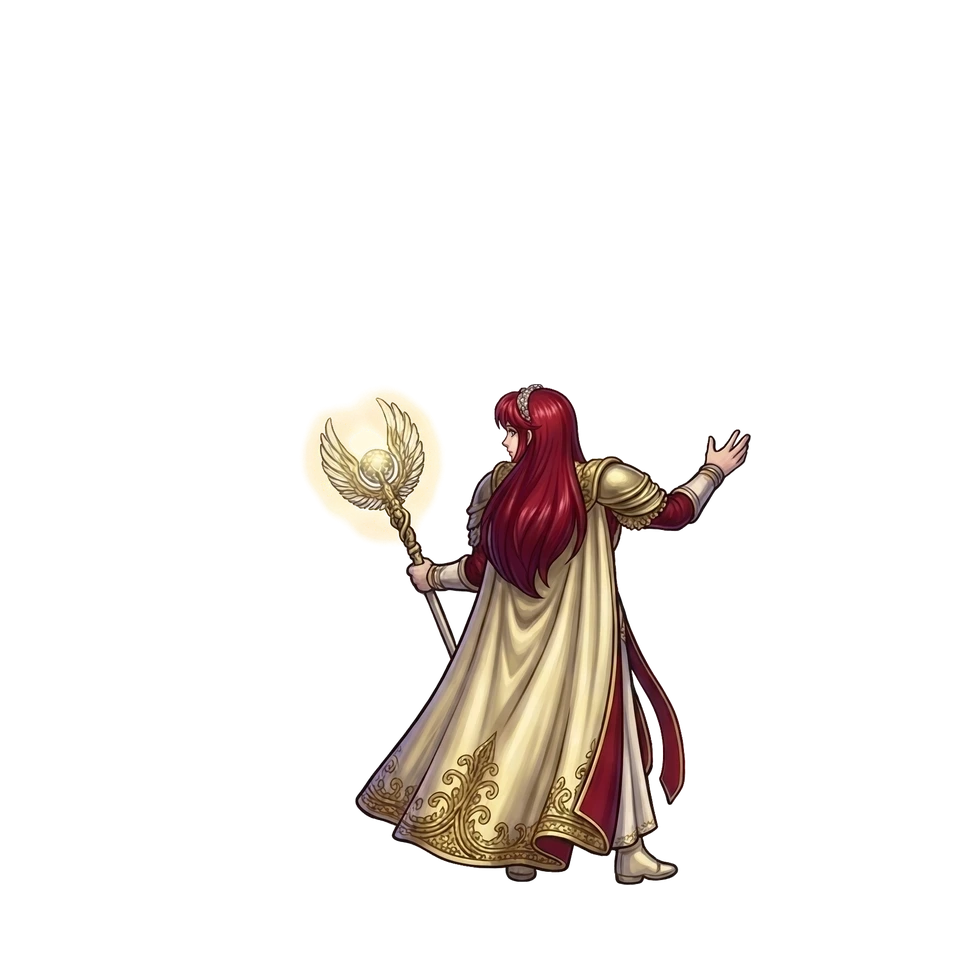
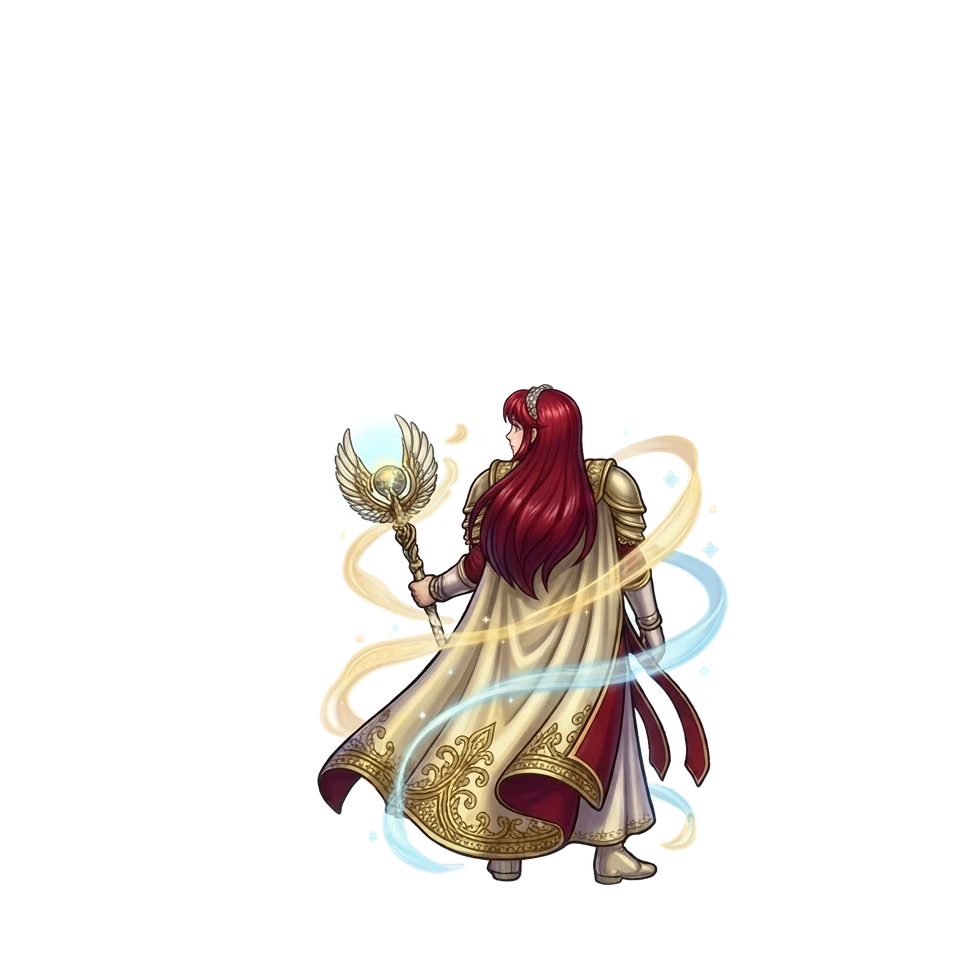
feat(vfx-lab): smooth #059 Yuni Saint chant arc F1->F3->F4->F2->F5->F6 (?v=85)
- Rotate #059 swirl frame head natively to face strictly UPPER-LEFT (`↖`),
  preserving golden pauldrons, cream-ivory brocade cloak & swirling gold/cyan
  ribbons (`chant_1.webp`, F2).
- Reorder #059 sequence into one continuous arm & energy crescendo:
  F1 idle (arm down) -> F2 swirling ribbons ↖ (arm down) -> F3 billowing cape
  + wand rays ↖ -> F4 raised right hand chanting w/ twin boosted radial cyan
  & solar-gold flares ↖ -> F5 massive twin starburst climax ↖ -> F6 lowered
  cool-down sparkles ↖.
- Rebuild `u_059/chant_sheet.jpg` and bump asset version to `?v=85`.

Changed region(s): [[0.3125, 0.4062, 0.7812, 0.9375]]

diff --git a/src/gallery.ts b/src/gallery.ts
@@ -1191,7 +1191,7 @@ class MappingGalleryApp {
                   <div>
                     <div class="mono-tag" style="font-size:10px; color:#fde047; margin-bottom:2px;">💥 Crit Cut-In</div>
                     <img
-                      src="assets/vfx_lab/units/u_${String(entry.id).padStart(3, '0')}/cutin.jpg?v=84"
+                      src="assets/vfx_lab/units/u_${String(entry.id).padStart(3, '0')}/cutin.jpg?v=85"
                       loading="lazy"
                       alt="${entry.nameZh} Cut-In"
                       style="width:100%; aspect-ratio:16/9; object-fit:cover; border-radius:5px; border:1px solid #334155; background:#05080f;"
@@ -1200,7 +1200,7 @@ class MappingGalleryApp {
                   <div>
                     <div class="mono-tag" style="font-size:10px; color:#7dd3fc; margin-bottom:2px;">🖼 HD 6-Frame Sheet</div>
                     <img
-                      src="assets/vfx_lab/units/u_${String(entry.id).padStart(3, '0')}/nb6_sheet.jpg?v=84"
+                      src="assets/vfx_lab/units/u_${String(entry.id).padStart(3, '0')}/nb6_sheet.jpg?v=85"
                       loading="lazy"
                       alt="${entry.nameZh} 6-Frame Sheet"
                       style="width:100%; aspect-ratio:16/9; object-fit:contain; border-radius:5px; background:#ffffff; border:1px solid #334155;"

diff --git a/src/ui/vfxLab.ts b/src/ui/vfxLab.ts
@@ -283,7 +283,7 @@ function loadImg(url: string): Promise<HTMLImageElement> {
   });
 }
 
-const VFX_ASSET_VERSION = '?v=84';
+const VFX_ASSET_VERSION = '?v=85';
 
 function enrichUnitMetadataFromGameData(assets: AssetManager, entry: VfxManifestUnitEntry): VfxManifestUnitEntry {
   const dex = assets.gameData.unitDex?.[entry.uid];
